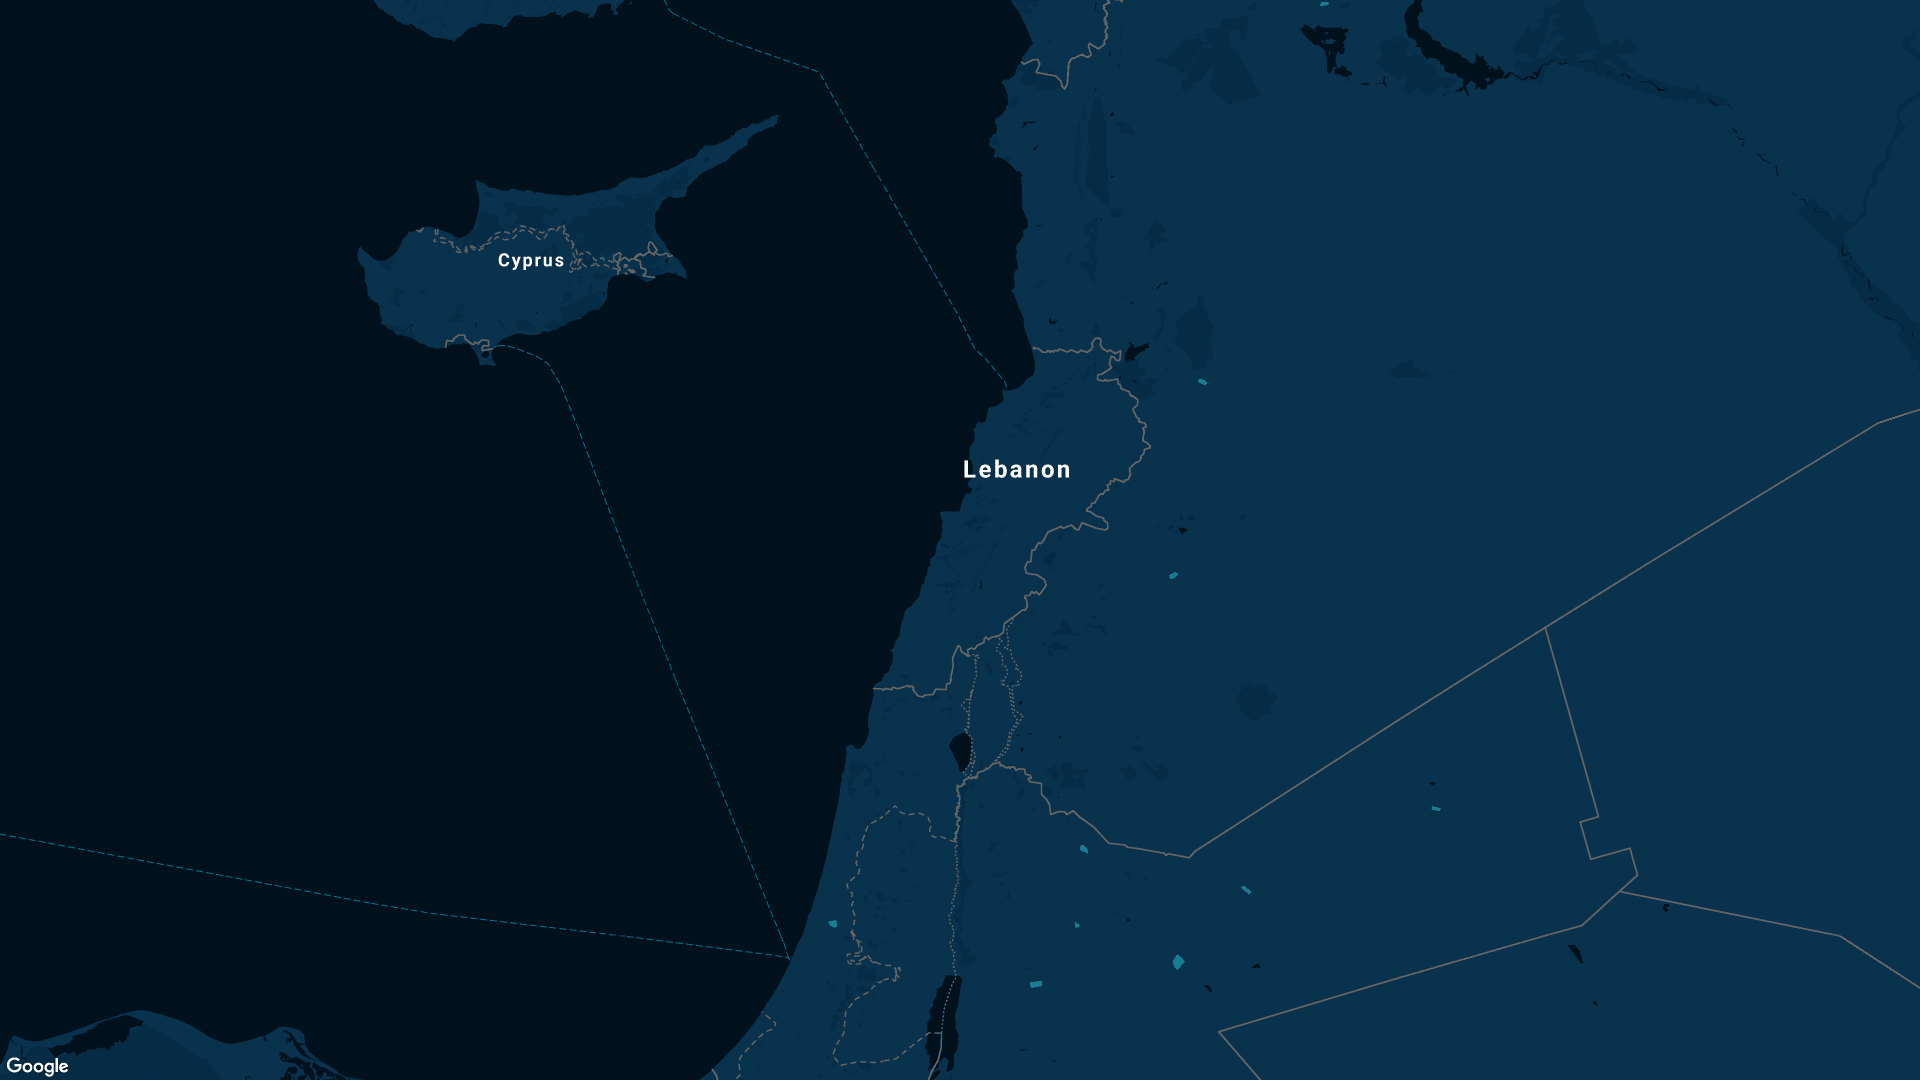
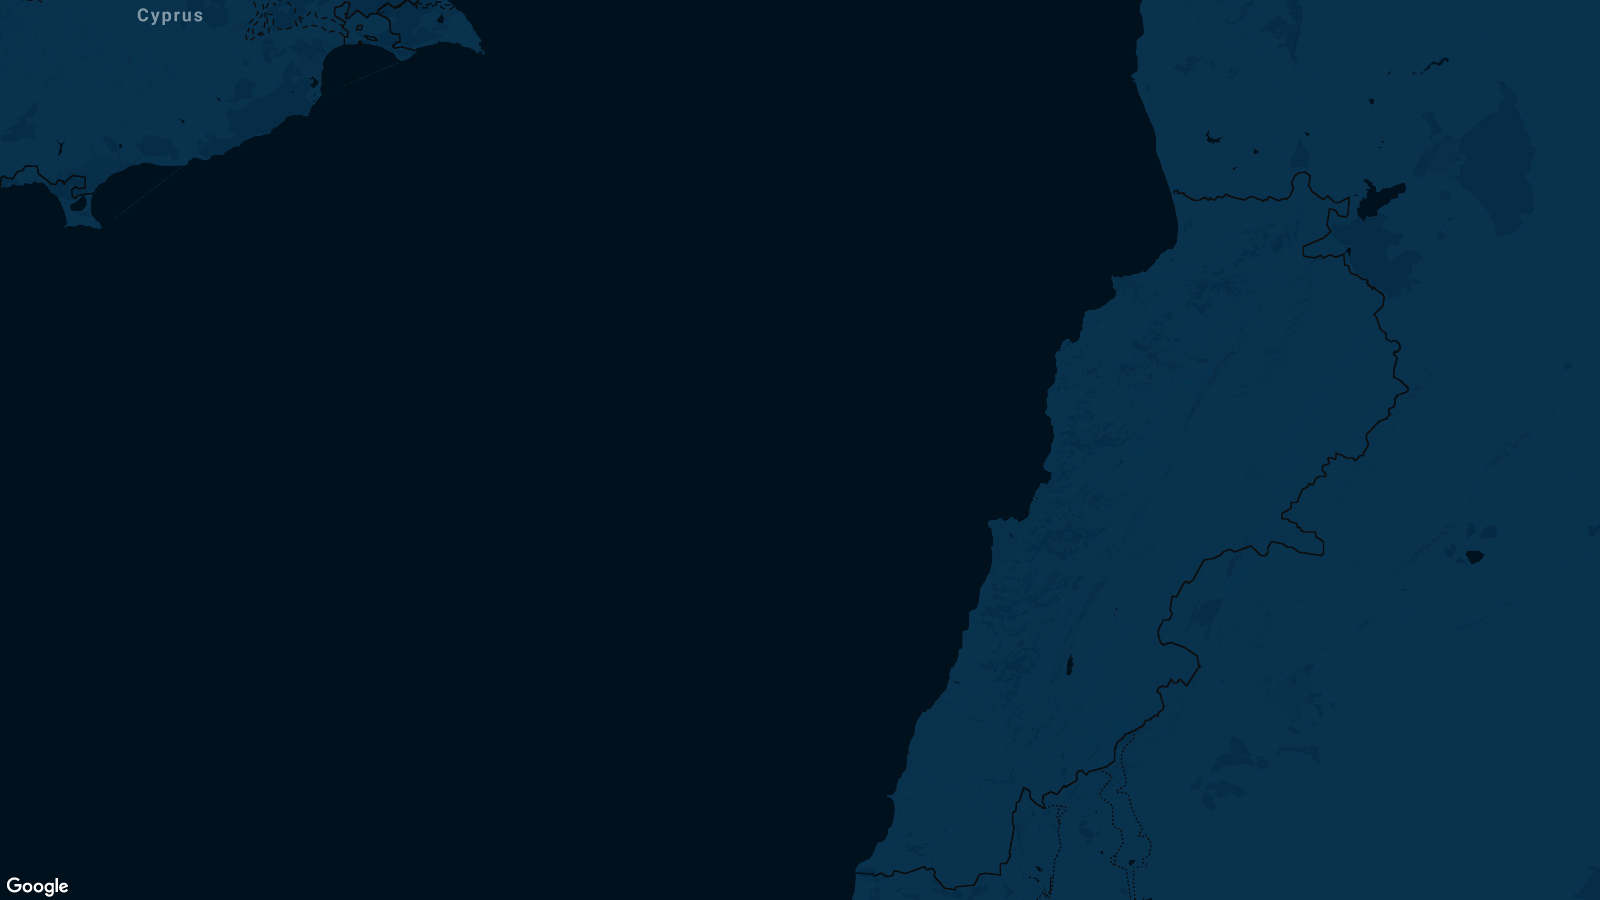
map scale adjustment

diff --git a/SACA/Common/src/Constants/Decimals.java b/SACA/Common/src/Constants/Decimals.java
@@ -1,7 +1,7 @@
 package Constants;
 
 public class Decimals {
-    public static final float MAP_SCALE = 1.6f;
+    public static final float MAP_SCALE = 4.64f;
     public static final float AIRPLANE_MAX_PITCH = 20.0f;
     public static final float AIRPLANE_MAX_ROLL = 80.0f;
     public static final float AIRPLANE_MAX_SPEED = 926.0f;
